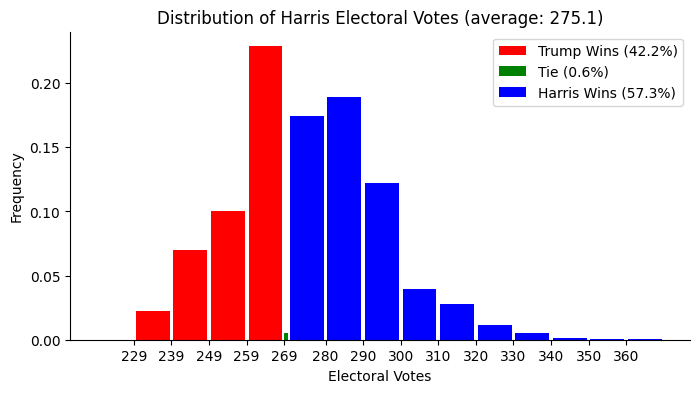
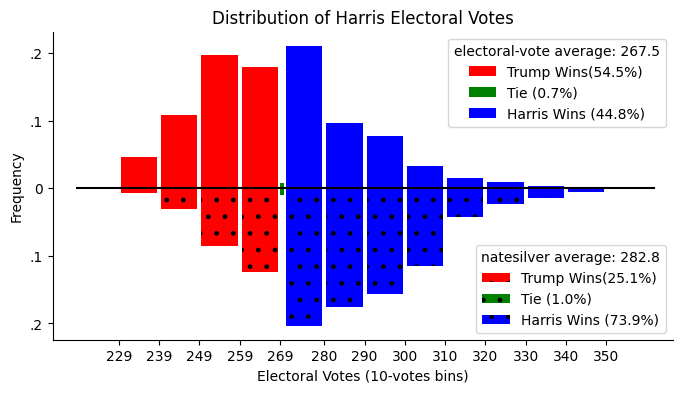
added data source

diff --git a/_code/simulate.py b/_code/simulate.py
@@ -6,26 +6,17 @@
 import pandas as pd
 import numpy as np
 import random
-from states import states, votes, stcode
-import math
+from states import states, votes, nsurls
 from datetime import datetime
-
-#%% get the polls data
-
-url = 'https://static.dwcdn.net/data/fgLCD.csv'
-url = 'https://static.dwcdn.net/data/dFSDp.csv'
-#url = 'https://projects.fivethirtyeight.com/polls-page/president_polls.csv'
-url = 'https://www.electoral-vote.com/evp2024/Pres/pres_polls.csv'
-
 from urllib.request import Request, urlopen
-req = Request(url, headers= {"User-Agent" : "Mozilla/5.0"})
 
-polls  = pd.read_csv(urlopen(req))
-
-#%%
-
+# make sure I can debug
+import os
+if os.getcwd()[-4:] == 'code':
+    os.chdir('..')
 
 # Set up some parameters
+moe_if_missing = 3
 debug = 1
 pollspagefile = 'pollspage.html'
 numsamples = 20000
@@ -34,84 +25,136 @@ emailfile = 'results.txt'
 statsfile = 'stats.raw'
 datadir = "_code/data/"
 figdir = "assets/"
-savedate = datetime.now().strftime("%Y-%m-%d-%H-%M-%S")
+savedate = datetime.now().strftime("%Y-%m-%d")
 
-# Initialize some variables
-normupbound = 5
-normstep = 0.01
 random.seed(1234)
+fullnames = {'ev': 'electoral-vote', 'ns': 'natesilver'}
 
-# Produce an array with the normal cdf
-def normal_cdf(upbound, step):
-    value = [-upbound + step * i for i in range(int(2 * upbound / step) + 1)]
-    pdf = [(1 / math.sqrt(2 * math.pi)) * math.exp(-0.5 * ((v - step / 2) ** 2)) for v in value]
-    cdf = [sum(pdf[:i + 1]) for i in range(len(pdf))]
-    cdf = [c / cdf[-1] for c in cdf]
-    return cdf
 
-cdf = normal_cdf(normupbound, normstep)
 
-# Get vote shares from polls
-rep_votes1 = 0
-tie_votes1 = 0
+#%% get the polls data
 
-poll = {}  # Assuming poll data is available
+# start with the electoral-vote data
+url_electoralvote = 'https://www.electoral-vote.com/evp2024/Pres/pres_polls.csv'
+
+req = Request(url_electoralvote, headers= {"User-Agent" : "Mozilla/5.0"})
+polls  = pd.read_csv(urlopen(req))
+polls['source'] = 'ev'
+polls['Date'] = polls['Date'].apply(lambda x: datetime.strptime(x, '%b %d').strftime('%m-%d'))
+
+# continue with natesilver data  state by state
+for key in nsurls.keys():
+    req = Request(nsurls[key], headers= {"User-Agent" : "Mozilla/5.0"})
+    polls_ns = pd.read_csv(urlopen(req))
+    polls_ns = polls_ns.rename(columns={'state':'State', 'trump':'GOP', 'harris':'Dem', 'modeldate': 'Date' })
+    polls_ns['source'] = 'ns'
+    polls_ns['Date'] = polls_ns['Date'].apply(lambda x: datetime.strptime(x, '%m/%d/%y').strftime('%m-%d'))
+
+    # concat the dataframe to the  polls dataframe
+    polls = pd.concat([polls,polls_ns], ignore_index=True)
+
+#%%
+# create a dictionary of shares of votes by source and state
+shares = {}
+for source in fullnames.keys():
+    shares[source] = {}  # Assuming poll data is available
+    for state in states:
+        shares[source][state] = {}
+        # skip if DC
+        if state == 'District of Columbia':
+            shares[source][state]['GOP'] = 0
+            shares[source][state]['Dem'] = 1
+            shares[source][state]['share'] = 0
+            shares[source][state]['moe'] = moe_if_missing
+            continue
+
+        # set to 3 for now
+        shares[source][state]['moe'] = moe_if_missing
 
 for state in states:
-    poll[state] = {}
-    # skip if DC
-    if state == 'District of Columbia':
-        poll[state]['GOP'] = 0
-        poll[state]['share'] = 0
-        poll[state]['moe'] = 3
-        continue
-    poll[state]['GOP'] = polls[polls['State'] == state].iloc[0]['GOP']
-    poll[state]['Dem'] = polls[polls['State'] == state].iloc[0]['Dem']
-    poll[state]['moe'] = 3
-    poll[state]['share'] = poll[state]['GOP'] / (poll[state]['GOP'] + poll[state]['Dem'])
+    # check if a state is available in the dataframe
+    # and if so compute shares
+    if len(polls[(polls['source']=='ev') & (polls['State']==state)]) != 0:
+        # index 0 is the most recent poll in the electoral-vote data
+        shares['ev'][state]['GOP'] = polls[(polls['source']=='ev') & (polls['State']==state)].iloc[0]['GOP']
+        shares['ev'][state]['Dem'] = polls[(polls['source']=='ev') & (polls['State']==state)].iloc[0]['Dem']
+    if len(polls[(polls['source']=='ns') & (polls['State']==state)]) != 0:
 
+        # index -1 is the most recent poll in the natesilver data
+        # could do a date check here
+        shares['ns'][state]['GOP'] = polls[(polls['source']=='ns') & (polls['State']==state)].iloc[-1]['GOP']
+        shares['ns'][state]['Dem'] = polls[(polls['source']=='ns') & (polls['State']==state)].iloc[-1]['Dem']
 
-#%%
+for source in fullnames.keys():
+    for state in states:
+        #check if key exists
+        if 'GOP' in shares[source][state].keys():
+            shares[source][state]['share'] = shares[source][state]['GOP'] / (shares[source][state]['GOP'] + shares[source][state]['Dem'])
+        else:
+            shares[source][state]['share'] = shares['ev'][state]['share']
+
+# verify all states have shares
+for source in fullnames.keys():
+    for state in states:
+        if 'share' not in shares[source][state].keys():
+            print('No share for ' + state + ' in ' + source)
+
 # now simulate outcomes 
-states = list(poll.keys())
 
-# Vectorized alternative computation
-dem_votes_all = []
-repwin = 0
-tie = 0
+def simulate(source):
+    dem_votes_all = []
+    repwin = 0
+    tie = 0
+    
+    # Generate random draws for all states and samples at once
+    means = np.array([shares[source][state]['share'] for state in states])
+    std_devs = np.array([shares[source][state]['moe'] / 200 for state in states])
+    draws = np.random.normal(means, std_devs, (numsamples, len(states)))
 
-# Generate random draws for all states and samples at once
-means = np.array([poll[state]['share'] for state in states])
-std_devs = np.array([poll[state]['moe'] / 200 for state in states])
-draws = np.random.normal(means, std_devs, (numsamples, len(states)))
+    # Determine which states are won by Republicans for each sample
+    rep_wins = draws > 0.5
 
-# Determine which states are won by Republicans for each sample
-rep_wins = draws > 0.5
+    # Calculate Republican votes for each sample
+    rep_votes_all = np.sum(rep_wins * np.array([votes[state] for state in states]), axis=1)
 
-# Calculate Republican votes for each sample
-rep_votes_all = np.sum(rep_wins * np.array([votes[state] for state in states]), axis=1)
+    # Calculate Democratic votes for each sample
+    dem_votes_all = 538 - rep_votes_all
 
-# Calculate Democratic votes for each sample
-dem_votes_all = 538 - rep_votes_all
+    # Calculate the number of Republican wins and ties
+    repwin = np.sum(rep_votes_all > 269)
+    tie = np.sum(rep_votes_all == 269)
 
-# Calculate the number of Republican wins and ties
-repwin = np.sum(rep_votes_all > 269)
-tie = np.sum(rep_votes_all == 269)
+    proprep = repwin / numsamples * 100
+    proptie = tie / numsamples * 100
+    propdem = 100 - proprep - proptie
+    avgdemvotes = sum(dem_votes_all) / numsamples
 
-#%%
-# Compute proportion of wins for republicans, ties, and democrats
-propb = {}
-propt = {}
-propk = {}
+    return {'demvotes':avgdemvotes,'demprob':propdem,'tieprob':proptie}, dem_votes_all
 
+stats = {}
+allsims = {}
+stats['ev'], allsims['ev'] = simulate('ev')
+stats['ns'], allsims['ns'] = simulate('ns')
 
-proprep = repwin / numsamples * 100
-proptie = tie / numsamples * 100
-propdem = 100 - proprep - proptie
+for source in fullnames.keys():
+    print(source, stats[source])
+# %% 
+# create a dataframe with date and harris expected votes,
+# and write to a file
+try: 
+    df = pd.read_csv(datadir+'harrisvotes.csv')
+    if savedate not in df['date'].values:
+        if 'ev' not in df[df['date']==savedate]['source'].values:
+            # use concat instead of append
+            df = pd.concat([df, pd.DataFrame({'date':savedate,**stats['ev'],'source':'ev'}, index=[0])], ignore_index=True)
+        if 'ns' not in df[df['date']==savedate]['source'].values:
+            df = pd.concat([df, pd.DataFrame({'date':savedate,**stats['ns'],'source':'ns'}, index=[0])], ignore_index=True)
+except:
+    print('aa')
+    df = pd.DataFrame({'date':savedate,**stats['ev'],'source':'ev'})
+    df = pd.concat([df, pd.DataFrame({'date':savedate,**stats['ns'],'source':'ns'}, index=[0])], ignore_index=True)
 
-print(f"{proprep} {proptie}")
-
-avgdemvotes = sum(dem_votes_all) / numsamples
+df.to_csv( datadir+'harrisvotes.csv', index=False)
 
 #%% 
 # plot the distribution of electoral votes
@@ -120,24 +163,29 @@ import matplotlib.pyplot as plt
 import numpy as np
 
 # Create a figure and a set of subplots
-fig, ax = plt.subplots( figsize=(8, 4))
-ax.set_title('Distribution of Harris Electoral Votes (average: ' + str(round(avgdemvotes, 1)) + ')')
-ax.set_xlabel('Electoral Votes')
+fig, (ax) = plt.subplots(1,1, figsize=(8, 4))
+ax.set_title('Distribution of Harris Electoral Votes')
+ax.set_xlabel('Electoral Votes (10-votes bins)')
 ax.set_ylabel('Frequency')
-ax.set_ylim
 
 #remove axis
 ax.spines['top'].set_visible(False)
 ax.spines['right'].set_visible(False)
+ax1.spines['top'].set_visible(False)
+ax1.spines['right'].set_visible(False)
 
-bins = np.append(np.arange(219,270,10),np.arange(270,380,10))
+bins = np.append(np.arange(219,270,10),np.arange(270,370,10))
 
 # compute frequencies'
-freq = []
-freq.append(np.sum(dem_votes_all < bins[0]))
-for i in range(1,len(bins)-1):
-    freq.append(np.sum((dem_votes_all >= bins[i]) & (dem_votes_all < bins[i+1]) ))
-freq = np.array(freq)/numsamples
+
+freq = {}
+for source in fullnames.keys():
+    dem_votes_all = allsims[source]
+    freq[source] = []
+    freq[source].append(np.sum(dem_votes_all < bins[0]))
+    for i in range(1,len(bins)-1):
+        freq[source].append(np.sum((dem_votes_all >= bins[i]) & (dem_votes_all < bins[i+1]) ))
+    freq[source] = np.array(freq[source])/numsamples
 
 colors = ['red' if x < 269 else 'blue' for x in bins[:-1]]
 colors[np.where(bins==269)[0][0]]= 'green'
@@ -147,36 +195,41 @@ a.remove(270)
 
 ax.set_xticks(a)
 ax.set_xticklabels(a)
+ax.set_yticks(np.arange(-.2,0.3,0.1))
+ax.set_yticklabels(['.2','.1','0','.1','.2'])
 
-replabel = 'Trump Wins'+ ' (' + str(round(proprep,1)) + '%)'
-tielabel = 'Tie'+ ' (' + str(round(proptie,1)) + '%)'
-demlabel = 'Harris Wins'+ ' (' + str(round(propdem,1)) + '%)'
+replabel = {}
+tielabel = {}
+demlabel = {}
+for source in fullnames.keys():
+    repprob = 100 - stats[source]['demprob'] - stats[source]['tieprob']
+    replabel[source] = 'Trump Wins'+ '(' + str(round(repprob,1)) + '%)'
+    tielabel[source] = 'Tie'+ ' (' + str(round(stats[source]['tieprob'],1)) + '%)'
+    demlabel[source] = 'Harris Wins'+ ' (' + str(round(stats[source]['demprob'],1)) + '%)'
+
 handles = {}
+handles2 = {}
 for i in range(len(bins) - 1):
-    [print(bins[i], freq[i])]
     if bins[i] < 269:
-        handles[bins[i]] = ax.bar(bins[i]+5, freq[i], color=colors[i], width=9, label=replabel)
+        handles[bins[i]] = ax.bar(bins[i]+5, freq['ev'][i], color=colors[i], width=9, label=replabel['ev'], alpha=1)
+        # draw empty bars for natesilver
+        handles2[bins[i]] = ax.bar(bins[i]+5, -freq['ns'][i], color=colors[i], width=9, label=replabel['ns'], hatch='.')
     elif bins[i] == 269:
-        handles[bins[i]] = ax.bar(bins[i]+.5, freq[i], color=colors[i], width=1, label=tielabel)
+        handles[bins[i]] = ax.bar(bins[i]+.5, freq['ev'][i], color=colors[i], width=1, label=tielabel['ev'], alpha=1)
+        handles2[bins[i]] = ax.bar(bins[i]+.5, -freq['ns'][i], color=colors[i], width=1, label=tielabel['ns'],  hatch='.')
     else:
-        handles[bins[i]] = ax.bar(bins[i]+5, freq[i], color=colors[i], width=9, label=demlabel)
+        handles[bins[i]] = ax.bar(bins[i]+5, freq['ev'][i], color=colors[i], width=9, label=demlabel['ev'], alpha=1)
+        handles2[bins[i]] = ax.bar(bins[i]+5, -freq['ns'][i], color=colors[i], width=9, label=demlabel['ns'],  hatch='.')
 
+#horizontal line at 0
+ax.axhline(y=0, color='black', linestyle='-', xmin=0.04, xmax=0.97)
+legend1 = ax.legend(handles= [ handles[bins[0]],handles[269],handles[bins[-2]]], title='electoral-vote '+'average: ' + str(round(stats['ev']['demvotes'], 1)))
 
-ax.legend(handles= [ handles[bins[0]],handles[269],handles[bins[-2]]])
+# draw a second legend
+legend2 = ax.legend(handles= [ handles2[bins[0]],handles2[269],handles2[bins[-2]]], loc='lower right', title='natesilver ''average: ' + str(round(stats['ns']['demvotes'], 1)))
+ax.add_artist(legend1)
 fig.savefig(figdir+'harrisvotesdist.png', bbox_inches='tight')
 
-
-# %% 
-# create a dataframe with date and harris expected votes,
-# and write to a file
-try: 
-    df = pd.read_csv(datadir+'harrisvotes.csv')
-    if savedate not in df['date'].values:
-        df = df.append({'date': savedate, 'votes': avgdemvotes, 'demprob' : propdem, 'tieprob': proptie}, ignore_index=True)
-except:
-    df = pd.DataFrame({'date': [savedate], 'votes': [avgdemvotes]})
-
-df.to_csv( datadir+'harrisvotes.csv', index=False)
 
 # %%
 # plot a figure of harrisvotes by date from the data frame
@@ -188,24 +241,26 @@ ax2.spines['right'].set_visible(False)
 
 # substring the date ecolumn to get the month and day
 df['dm'] = df['date'].str[5:10]
-ax.plot(df['dm'], df['votes'], label='Harris Expected Votes', color='blue')
+ax.plot(df[df['source']=='ev']['dm'], df[df['source']=='ev']['demvotes'], label='electoral-vote', color='blue')
+ax.plot(df[df['source']=='ns']['dm'], df[df['source']=='ns']['demvotes'], ':', label='natesilver', color='blue')
 ax.set_title('Dem expected electoral votes')
-ax2.set_title('Dem win frequencies')
+ax2.set_title('Dem win probability')
 ax.set_xlabel('Date')
 ax.set_ylabel('Electoral Votes')
 ax.set_ylim(270-70, 270+70)
 ax.set_yticks(np.arange(210, 331, 20))
 ax2.set_ylim(0, 100)
-ax2.plot(df['dm'], df['demprob'], color='blue', linestyle=':', label='Harris Win Probability (right)')
+ax2.plot(df[df['source']=='ev']['dm'], df[df['source']=='ev']['demprob'], color='blue', linestyle='-',)
+ax2.plot(df[df['source']=='ns']['dm'], df[df['source']=='ns']['demprob'], color='blue', linestyle=':', )
+fig.legend(bbox_to_anchor=(.6,.4))
 
-# horizontal line at 270
+# horizontal line ties
 ax.axhline(y=270, color='r', linestyle='--', xmin=0.04, xmax=0.97)
 ax2.axhline(y=50, color='r', linestyle='--', xmin=0.04, xmax=0.97)
 
-# limit the width of the axhline within the same range of the plot lines
-plt.xticks(rotation=45)
 plt.show()
 
 # save figure
 fig.savefig(figdir+'harrisvotes.png', bbox_inches='tight')
+
 # %%
